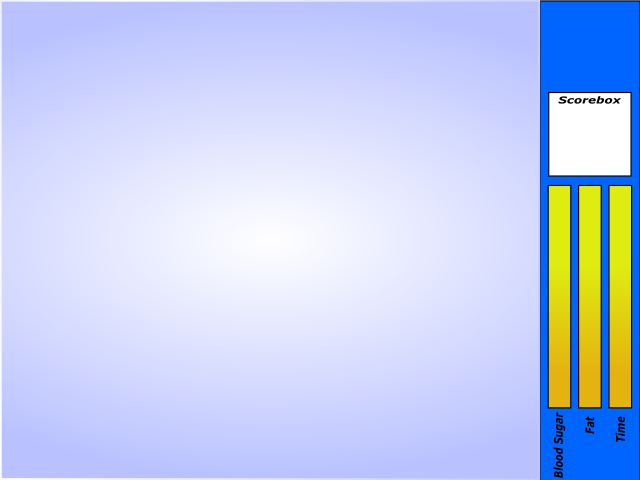
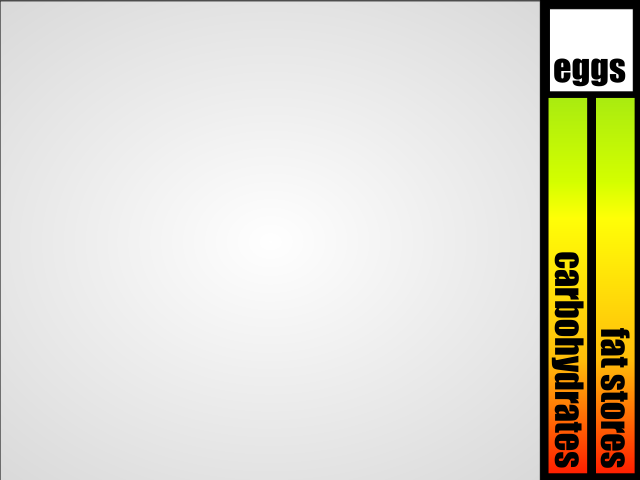
got status bar working

diff --git a/pyweek/statusbox.py b/pyweek/statusbox.py
@@ -1,6 +1,7 @@
 import pygame, events
 import eventnet.driver
 import unittest
+from constants import IMAGE
 
 """
 [19:56]sabren: david: look at the drawing routines in pygame for the bars..
@@ -32,7 +33,10 @@ class Bar(pygame.sprite.Sprite):
         surface = self.image
         surface = pygame.transform.scale(surface, newsize)
         self.image = surface
-        eventnet.driver.post(events.SCREEN.STATUS_CHANGED)
+
+        # turns out the sprite engine always blits us, so
+        # no need to post an event
+        #eventnet.driver.post(events.SCREEN.STATUS_CHANGED)
                 
 class StatusBoxTest(unittest.TestCase):
     """
@@ -52,12 +56,12 @@ class StatusBoxTest(unittest.TestCase):
         """Is there a complete score box?
         """
         assert self.sb
-        assert self.sb.bars["fatbar"]
+        #assert self.sb.bars["fatbar"]
         assert self.sb.bars["fatbar_black"]
-        assert self.sb.bars["bloodbar"]
+        #assert self.sb.bars["bloodbar"]
         assert self.sb.bars["bloodbar_black"]
-        assert self.sb.bars["timebar"]
-        assert self.sb.bars["timebar_black"]
+        #assert self.sb.bars["timebar"]
+        #assert self.sb.bars["timebar_black"]
 
     def testStatusBoxAction(self):
         """Ready, set, action!
@@ -104,33 +108,39 @@ class StatusBox(eventnet.driver.Handler):
         bloodcolor = (255, 0, 0)
         fatcolor = (0, 255, 0)
         timecolor = (0, 0, 255)
-        self.black = (100,100,100)
-        self.barheight = 160
-        self.barwidth = 24
+        self.bg = (255,255,255)   # white
+        self.barheight = 376
+        self.barwidth = 38
         blackheight = 1
         right = 640
-        self.bloodloc = right-(32*3)+4
-        self.fatloc = right-(32*2)+4
-        self.timeloc = right-(32)+4
+        S = IMAGE.STATUS
         self.bars = {}
-        self.bars["fatbar"] = Bar(fatcolor, (self.fatloc, 0), self.barwidth, self.barheight)
-        self.bars["fatbar_black"] = Bar(self.black, (self.fatloc, 0), self.barwidth, blackheight)
-        self.bars["bloodbar"] = Bar(bloodcolor, (self.bloodloc, 0), self.barwidth, self.barheight)
-        self.bars["bloodbar_black"] = Bar(self.black, (self.bloodloc, 0), self.barwidth, blackheight)
-        self.bars["timebar"] = Bar(timecolor, (self.timeloc, 0), self.barwidth, self.barheight)
-        self.bars["timebar_black"] = Bar(self.black, (self.timeloc, 0), self.barwidth, blackheight)
+        #self.bars["fatbar"] = Bar(fatcolor, S.FATS_POS, self.barwidth, self.barheight)
+        self.bars["fatbar_black"] = Bar(self.bg, S.FATS_POS, self.barwidth, blackheight)
+        #self.bars["bloodbar"] = Bar(bloodcolor, S.CARB_POS, self.barwidth, self.barheight)
+        self.bars["bloodbar_black"] = Bar(self.bg, S.CARB_POS, self.barwidth, blackheight)
+
+        #Not really a bar, this is an ugly hack to make a pretty effect:
+        overlay = pygame.sprite.Sprite()
+        overlay.image = pygame.image.load(S.TXT)
+        overlay.rect = overlay.image.get_rect()
+        overlay.rect.topleft = S.TEXT_POS
+        self.bars["overlay_sprite"] = overlay
+        
+        #self.bars["timebar"] = Bar(timecolor, (self.timeloc, 0), self.barwidth, self.barheight)
+        #self.bars["timebar_black"] = Bar(self.bg, (self.timeloc, 0), self.barwidth, blackheight)
 
     def EVT_HEALTH_BLOOD_CHANGED(self, event):
         """Updates the blood bar display.
         """
-        assert event.blood
-        assert event.ceiling
+        #assert event.blood
+        #assert event.ceiling
         newsize = self.figureNewBarBlackSize(event.blood, event.ceiling)
         self.bars["bloodbar_black"].updateSize(newsize)
 
     def EVT_HEALTH_FAT_CHANGED(self, event):
-        assert event.fat
-        assert event.ceiling
+        #assert event.fat
+        #assert event.ceiling
         newsize = self.figureNewBarBlackSize(event.fat, event.ceiling)
         self.bars["fatbar_black"].updateSize(newsize)
 

diff --git a/pyweek/game.py b/pyweek/game.py
@@ -13,7 +13,7 @@ from constants import *
 from health import Food
 import sounds
 from render import SpriteGear
-
+from statusbox import StatusBox
 
 
 """
@@ -107,8 +107,17 @@ class Game(State):
     def __init__(self, display, roomName=TEST_ROOM):
         super(Game, self).__init__(display) #@TODO: fix me!
         self.controls = Controller()
+        self.status = StatusBox()
+        self.status.capture()
+
+        # add the status bar sprites. the status
+        # box is an event handler so they'll just
+        # change on their own, but we have to add
+        # them to the sprite group so they show up
+        # on screen...        
         self.sprites = SpriteGear(self.display)
-        
+        for bar in self.status.bars.values():
+            self.sprites.sprites.add(bar)
 
         if roomName == TEST_ROOM:
             self.room = makeTestRoom()

diff --git a/pyweek/constants.py b/pyweek/constants.py
@@ -44,6 +44,13 @@ class IMAGE:
     GAME="data/game.png" # main room for the game
 
     SOCCER = "data/soccer.png"
+    class STATUS:
+        BAR="data/statusbar.png"
+        TXT="data/statustxt.png"        
+        CARB_POS=(549,99)
+        FATS_POS=(596,99)
+        TEXT_POS=(552,253)
+        
     class KIWI:
         RIGHT="data/kiwi/right.png"
         LEFT="data/kiwi/left.png"
